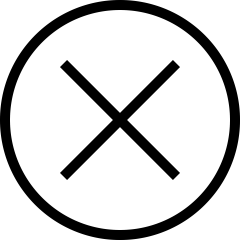
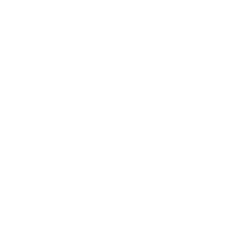
button styled

Changed region(s): [[0.0, 0.0, 1.0, 1.0], [0.2333, 0.2333, 0.7583, 0.7583]]

diff --git a/client/src/components/LikedCards/index.js b/client/src/components/LikedCards/index.js
@@ -22,8 +22,8 @@ export default function LikedCards(props) {
         {props.likedDogs.map((dog) => {
            return ( 
             <Paper elevation = {6} style={{borderRadius: 15}} >
-                <button className='likesXBtn' ><img src='./images/x.png'></img></button>
                 <Grid item xs={4} key={dog._id} container ={true} className='likedDogsContainer' style={{ marginBottom:15, maxWidth:"90vw", alignItems:"center", justifyContent:"center", fontFamily:"Oxygen"}}>
+                <button className='likesXBtn'><img src='./images/x.png' className='likesXImg'></img></button>
                         <img src={dog.photo[0].medium} alt='dog' />
                         <div className='likedDogsEx'>
                             <h2>{dog.name}</h2>

diff --git a/client/src/pages/Likes.css b/client/src/pages/Likes.css
@@ -5,18 +5,33 @@
     margin: 20px;
 }
 
-.likesXBtn{
-    background-color: #F2F2F2;
-    border: none;
-}
-
-.likesXBtn:hover{
-    background-color: #A2A2A2;
-}
-
 .likedDogsContainer {
     padding-bottom: 20px;
+    position: relative;
 } 
+
+.likesXBtn{
+    background-color: transparent;
+    border: none;
+    position: absolute;
+    float: right;
+    top: -5px;
+    right: -10px;
+}
+
+.likesXImg {
+    height: 40px;
+    margin-top: -8px;
+    background-color: #d5d5d5;
+    box-shadow: 2px 2px 7px #888888;
+    border-radius: 50%;
+}
+
+.likesXImg:hover{
+    background-color: #b2b2b2;
+    border-radius: 50%;
+    cursor: pointer;
+}
 
 .likedDogsContainer h2{
     margin: 15px;
